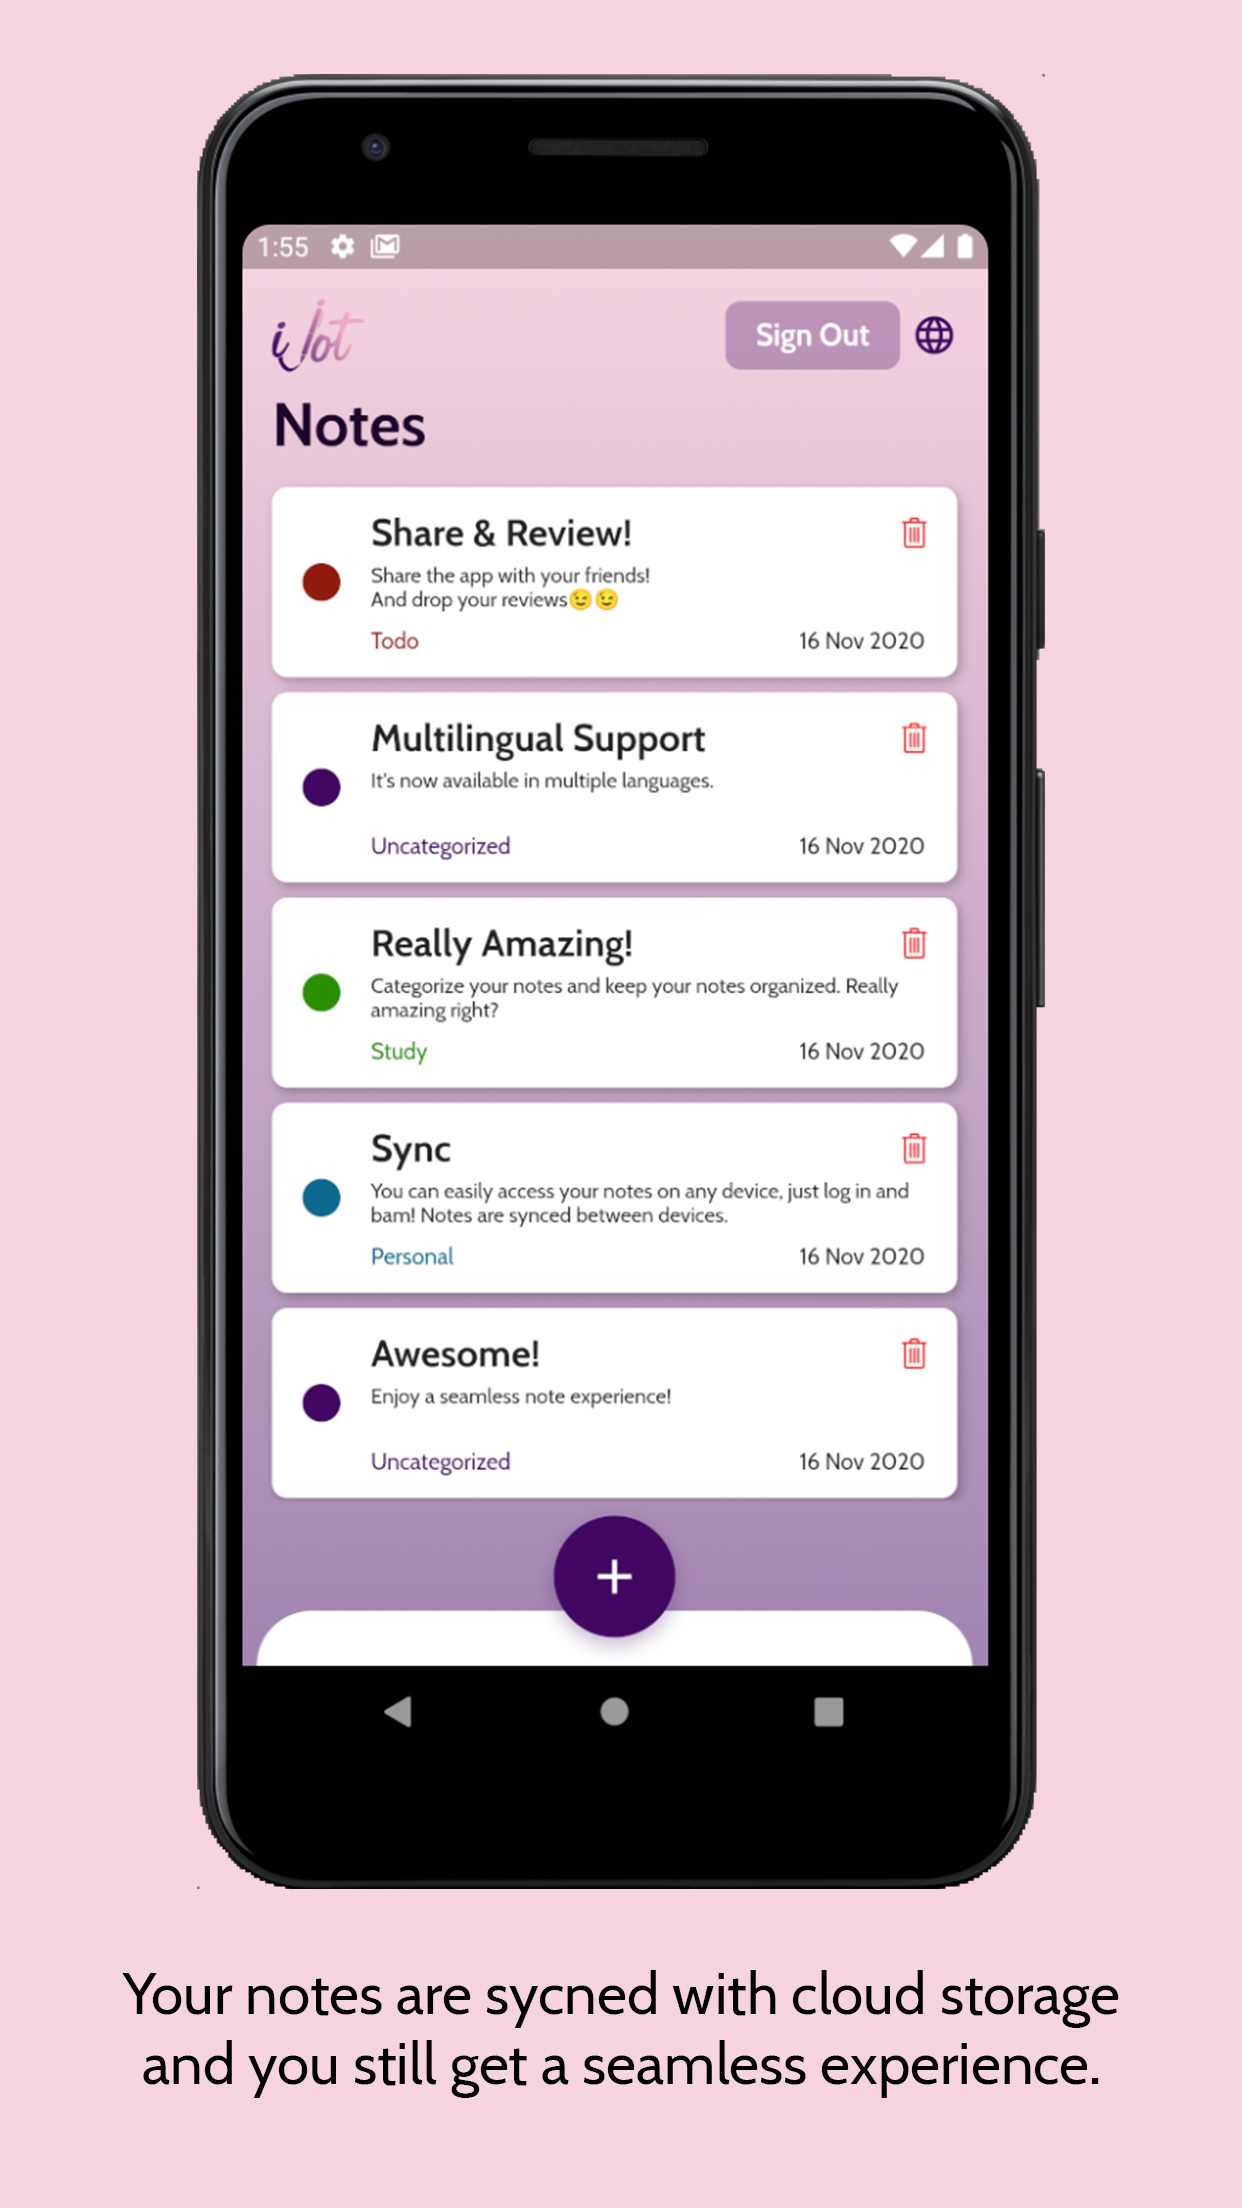
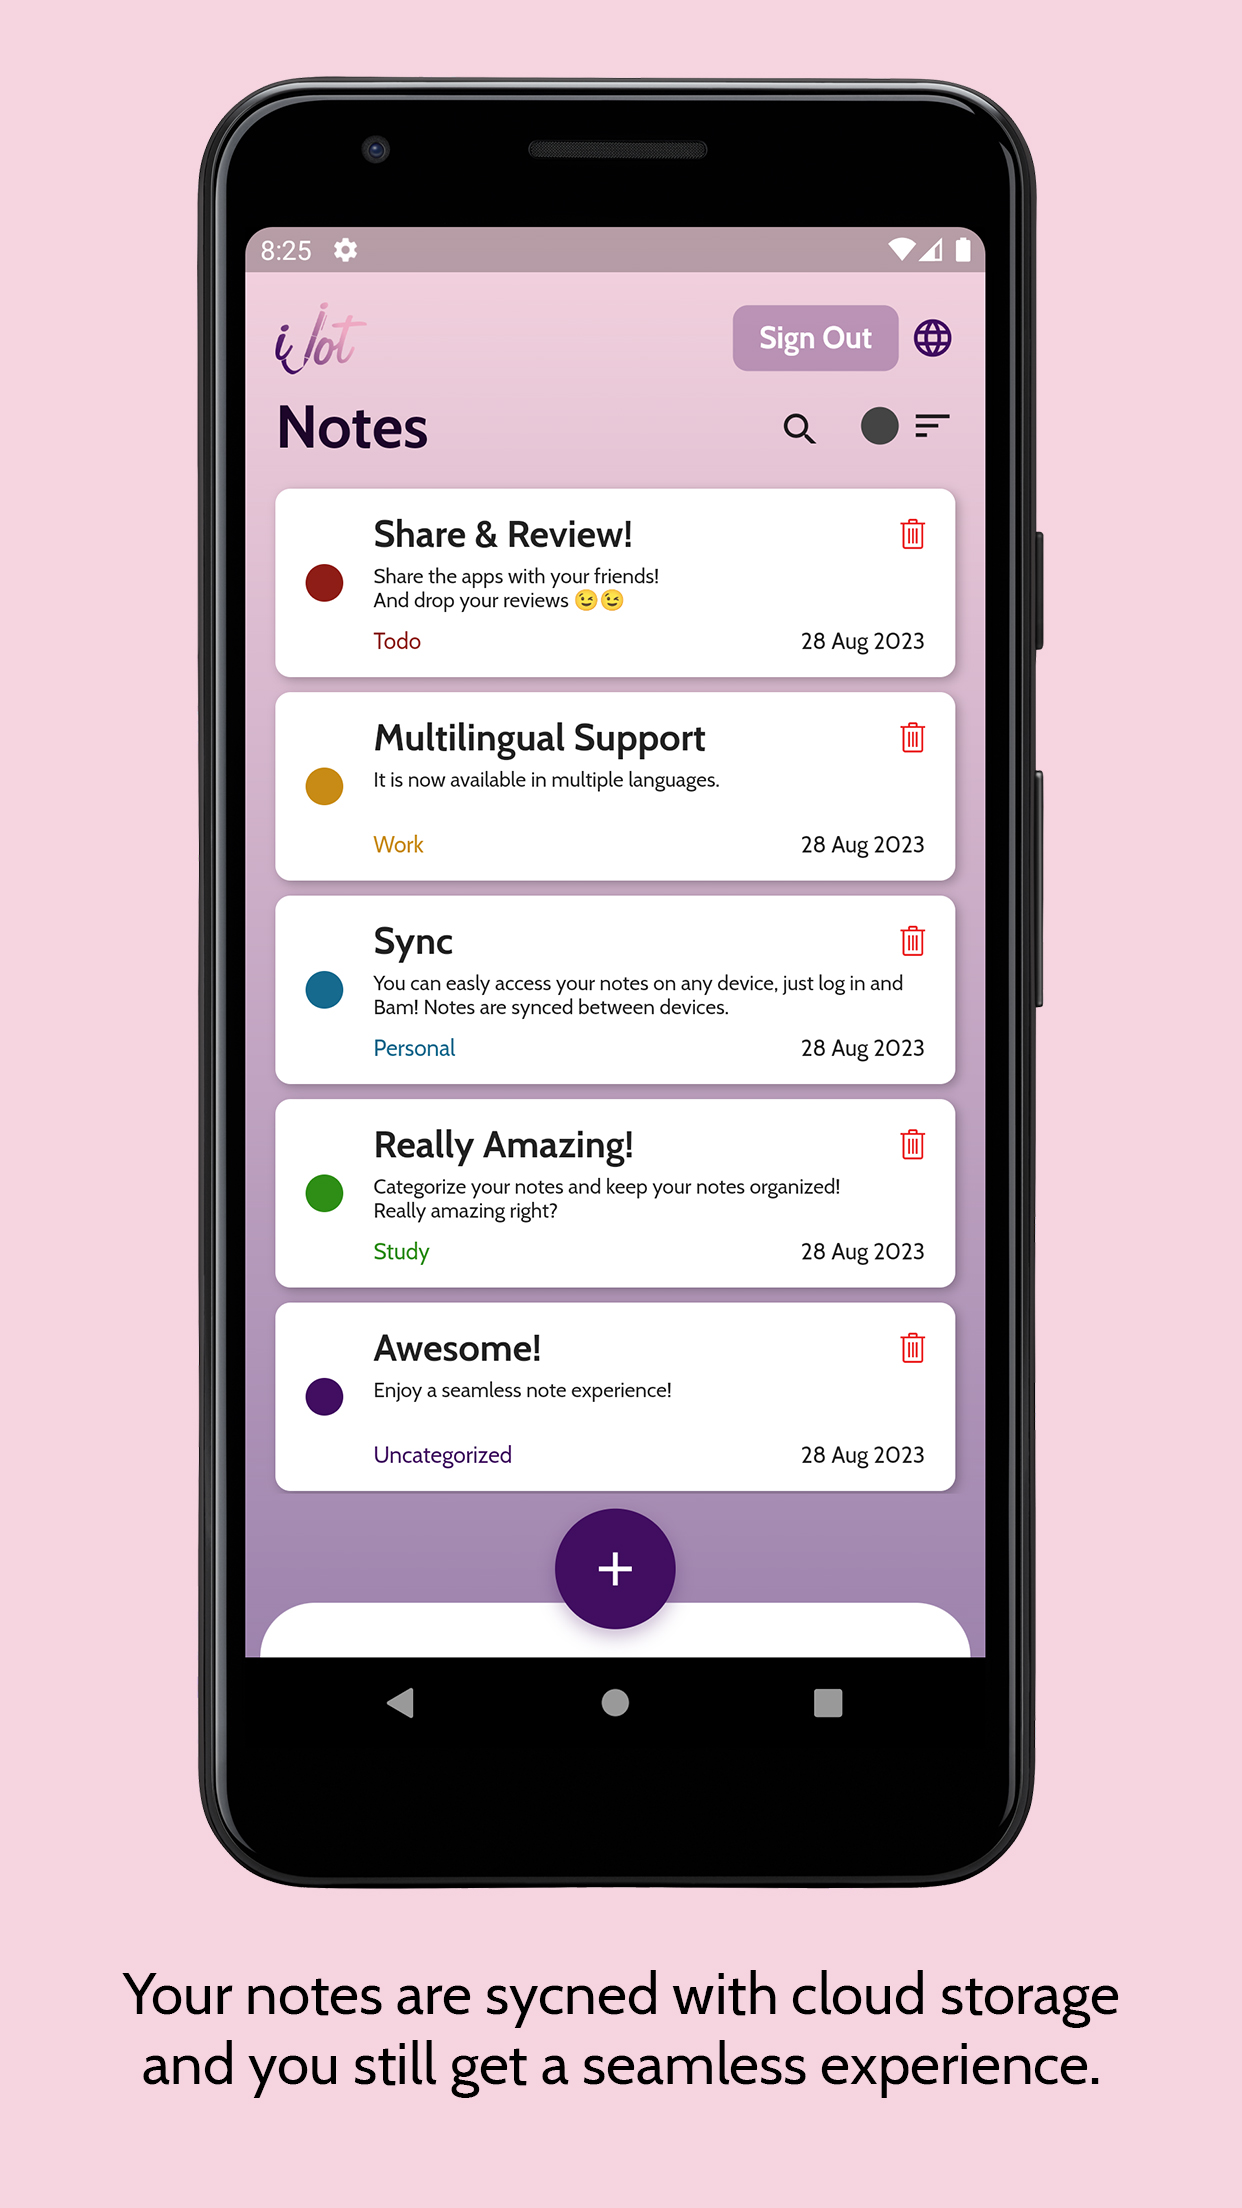
updated playstore metadata, fixed search widget, added increment build number script

diff --git a/lib/widgets/top_bar.dart b/lib/widgets/top_bar.dart
@@ -46,54 +46,59 @@ class TopBarWidget extends StatelessWidget {
                   ),
                 ),
               ),
-              Row(
-                children: [
-                  if (extraWidget != null && screenGreaterThan700) extraWidget!,
-                  kFullHSpace,
-                  if (AccountService.loggedInUserId != null)
-                    Container(
-                      height: 35.0,
-                      decoration: BoxDecoration(
-                        color: kPurple1,
-                        borderRadius:
-                            BorderRadius.circular(kCircularBorderRadius),
-                      ),
-                      child: TextButton(
-                        onPressed: () async {
-                          await AccountService.logout();
-                          if (context.mounted) {
-                            context.go(MyRoutes.loginRoute());
-                          }
-                        },
-                        child: Padding(
-                          padding: const EdgeInsets.symmetric(
-                            horizontal: 6.0,
-                          ),
-                          child: Text(
-                            'sign_out'.tr(),
-                            style: const TextStyle(
-                              fontWeight: FontWeight.bold,
-                              fontSize: 16.0,
-                              color: Colors.white,
+              kLargeHSpace,
+              Expanded(
+                child: Row(
+                  mainAxisAlignment: MainAxisAlignment.end,
+                  children: [
+                    if (extraWidget != null && screenGreaterThan700)
+                      Expanded(child: extraWidget!),
+                    kFullHSpace,
+                    if (AccountService.loggedInUserId != null)
+                      Container(
+                        height: 35.0,
+                        decoration: BoxDecoration(
+                          color: kPurple1,
+                          borderRadius:
+                              BorderRadius.circular(kCircularBorderRadius),
+                        ),
+                        child: TextButton(
+                          onPressed: () async {
+                            await AccountService.logout();
+                            if (context.mounted) {
+                              context.go(MyRoutes.loginRoute());
+                            }
+                          },
+                          child: Padding(
+                            padding: const EdgeInsets.symmetric(
+                              horizontal: 6.0,
+                            ),
+                            child: Text(
+                              'sign_out'.tr(),
+                              style: const TextStyle(
+                                fontWeight: FontWeight.bold,
+                                fontSize: 16.0,
+                                color: Colors.white,
+                              ),
                             ),
                           ),
                         ),
                       ),
-                    ),
-                  kHSpace6,
-                  GestureDetector(
-                    onTap: () => context.go(
-                      MyRoutes.languageRoute(),
-                    ),
-                    child: MouseRegion(
-                      cursor: SystemMouseCursors.click,
-                      child: Icon(
-                        Icons.language,
-                        color: Theme.of(context).primaryColor,
+                    kHSpace6,
+                    GestureDetector(
+                      onTap: () => context.go(
+                        MyRoutes.languageRoute(),
+                      ),
+                      child: MouseRegion(
+                        cursor: SystemMouseCursors.click,
+                        child: Icon(
+                          Icons.language,
+                          color: Theme.of(context).primaryColor,
+                        ),
                       ),
                     ),
-                  ),
-                ],
+                  ],
+                ),
               ),
             ],
           ),

diff --git a/lib/widgets/search_widget.dart b/lib/widgets/search_widget.dart
@@ -13,27 +13,40 @@ class SearchWidget extends StatelessWidget {
 
   bool get _isMobile => !kIsWeb && (Platform.isAndroid || Platform.isIOS);
 
+  double getPadding(BuildContext context) {
+    double width = MediaQuery.of(context).size.width;
+
+    if (width > 1080) {
+      return 300.0;
+    } else if (width > 700) {
+      return 100.0;
+    }
+    return 0.0;
+  }
+
   @override
   Widget build(BuildContext context) {
-    return ClipRRect(
-      borderRadius: BorderRadius.circular(kCircularBorderRadius),
-      child: SizedBox(
-        width: MediaQuery.of(context).size.width > 700 ? 300.0 : 200,
-        height: 35.0,
-        child: AnimatedSearchBar(
-          cursorColor: kPrimaryColor,
+    return Padding(
+      padding: EdgeInsets.only(left: getPadding(context)),
+      child: ClipRRect(
+        borderRadius: BorderRadius.circular(kCircularBorderRadius),
+        child: SizedBox(
           height: 35.0,
-          onChanged: onChanged,
-          searchDecoration: kTextFieldDecoration.copyWith(
-            hintText: 'search'.tr(),
-            contentPadding: !_isMobile
-                ? const EdgeInsets.only(
-                    top: 0.0,
-                    bottom: 20.0,
-                    left: 20.0,
-                    right: 20.0,
-                  )
-                : null,
+          child: AnimatedSearchBar(
+            cursorColor: kPrimaryColor,
+            height: 35.0,
+            onChanged: onChanged,
+            searchDecoration: kTextFieldDecoration.copyWith(
+              hintText: 'search'.tr(),
+              contentPadding: !_isMobile
+                  ? const EdgeInsets.only(
+                      top: 0.0,
+                      bottom: 20.0,
+                      left: 20.0,
+                      right: 20.0,
+                    )
+                  : null,
+            ),
           ),
         ),
       ),

diff --git a/increment_build_number.dart b/increment_build_number.dart
@@ -1,0 +1,28 @@
+import 'dart:developer';
+import 'dart:io';
+import 'package:yaml/yaml.dart';
+import 'package:yaml_edit/yaml_edit.dart';
+
+void main() {
+  final pubspecFile = File('pubspec.yaml');
+  final pubspecText = pubspecFile.readAsStringSync();
+  final pubspecMap = loadYaml(pubspecText);
+  final yamlEditor = YamlEditor(pubspecText);
+
+  if (pubspecMap != null) {
+    final String? currentVersion = pubspecMap['version'];
+
+    if (currentVersion != null) {
+      List<String> versionString = currentVersion.split('+');
+      final newVersionCode = int.parse(versionString[1]) + 1;
+      final newVersion = '${versionString[0]}+$newVersionCode';
+
+      yamlEditor.update(['version'], newVersion);
+
+      pubspecFile.writeAsStringSync(yamlEditor.toString());
+
+      log('Build number (versionCode) incremented to $newVersion');
+      return;
+    }
+  }
+}

diff --git a/lib/screens/notes.dart b/lib/screens/notes.dart
@@ -65,12 +65,14 @@ class _NotesScreenContentState extends State<NotesScreenContent> {
       extraTopBarWidget: Row(
         mainAxisAlignment: MainAxisAlignment.end,
         children: [
-          SearchWidget(
-            onChanged: (String text) {
-              setState(() {
-                _searchText = text;
-              });
-            },
+          Expanded(
+            child: SearchWidget(
+              onChanged: (String text) {
+                setState(() {
+                  _searchText = text;
+                });
+              },
+            ),
           ),
           kHalfHSpace,
           SortNoteWidget(
